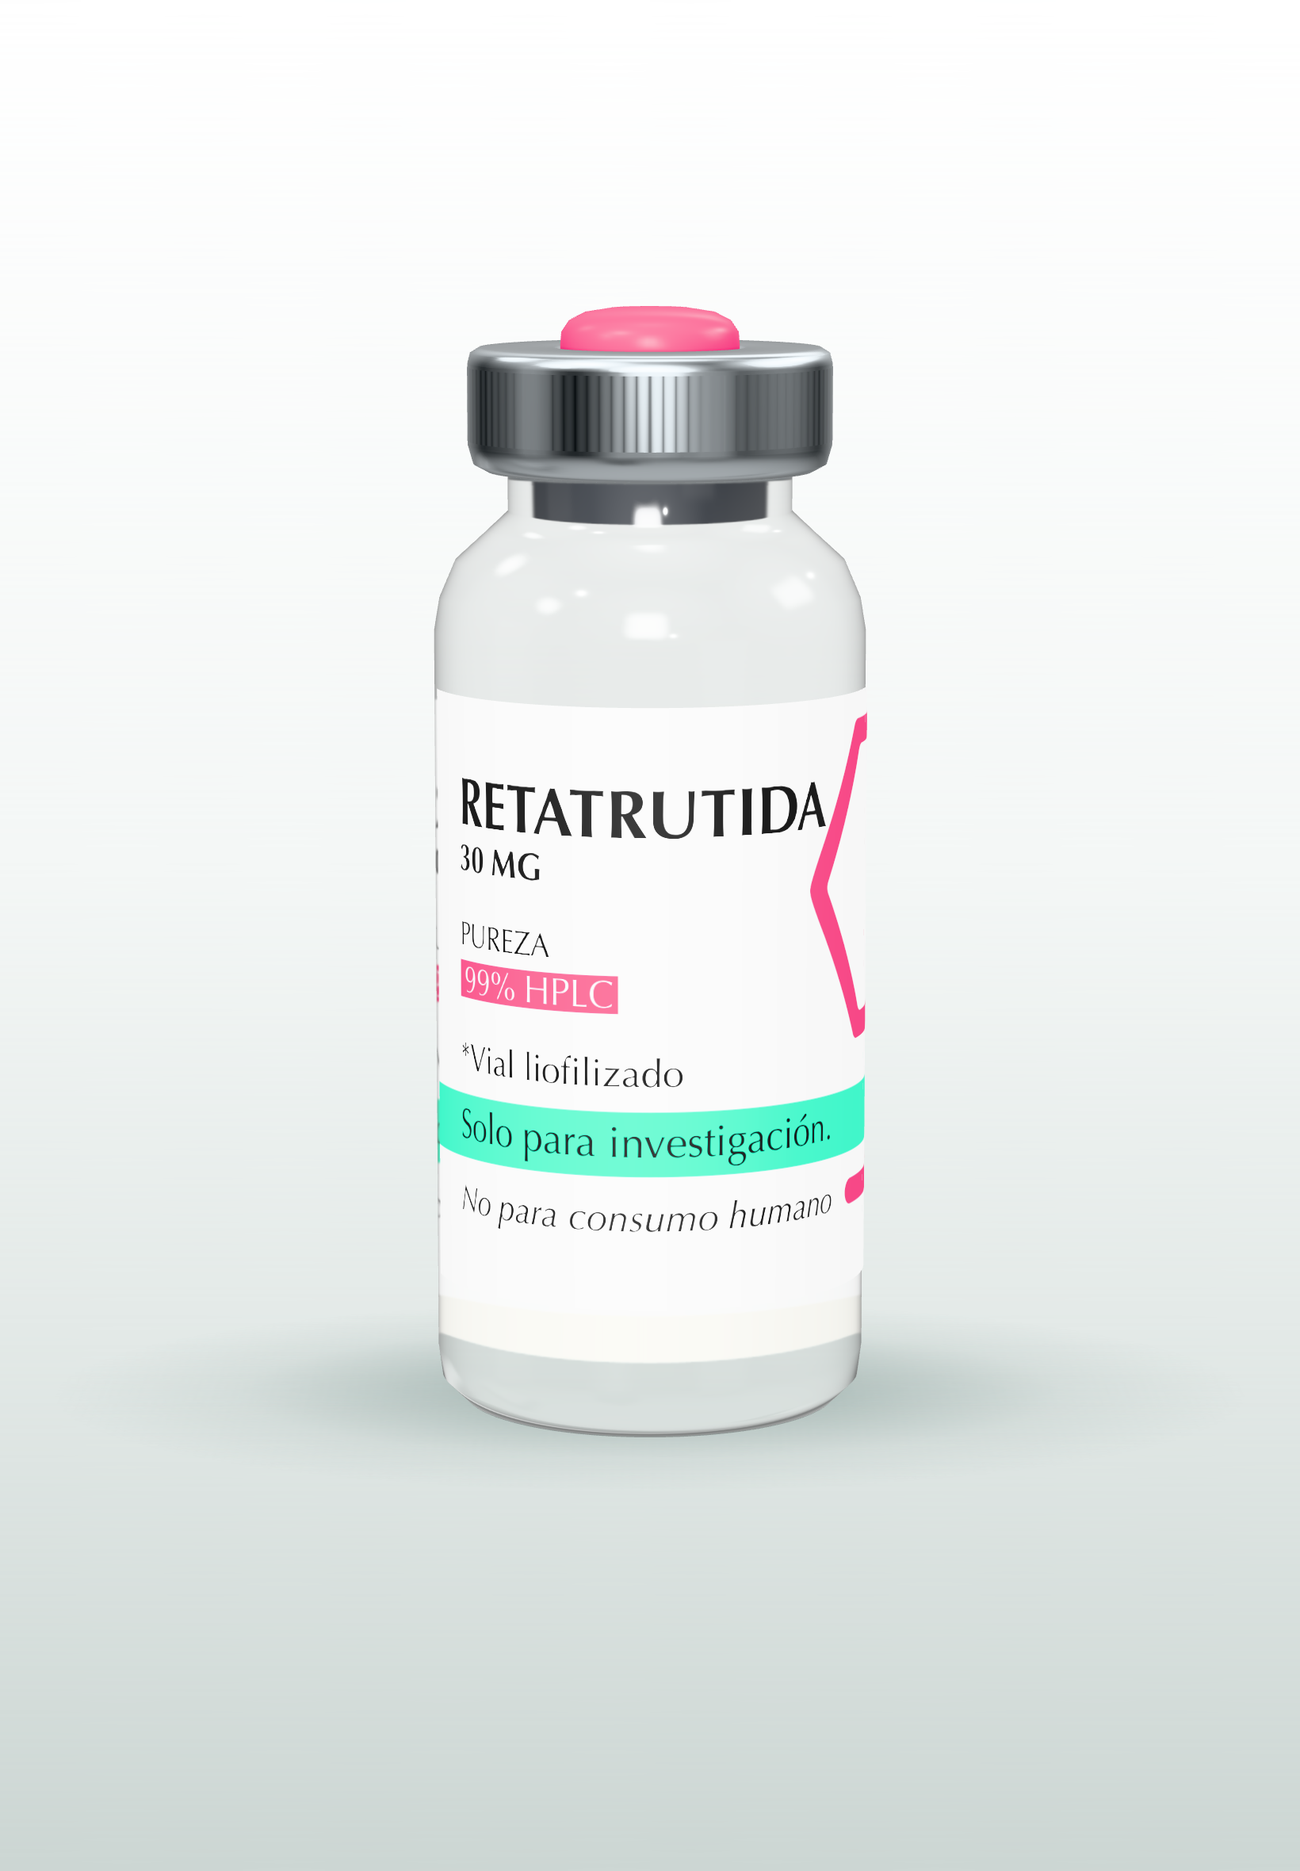
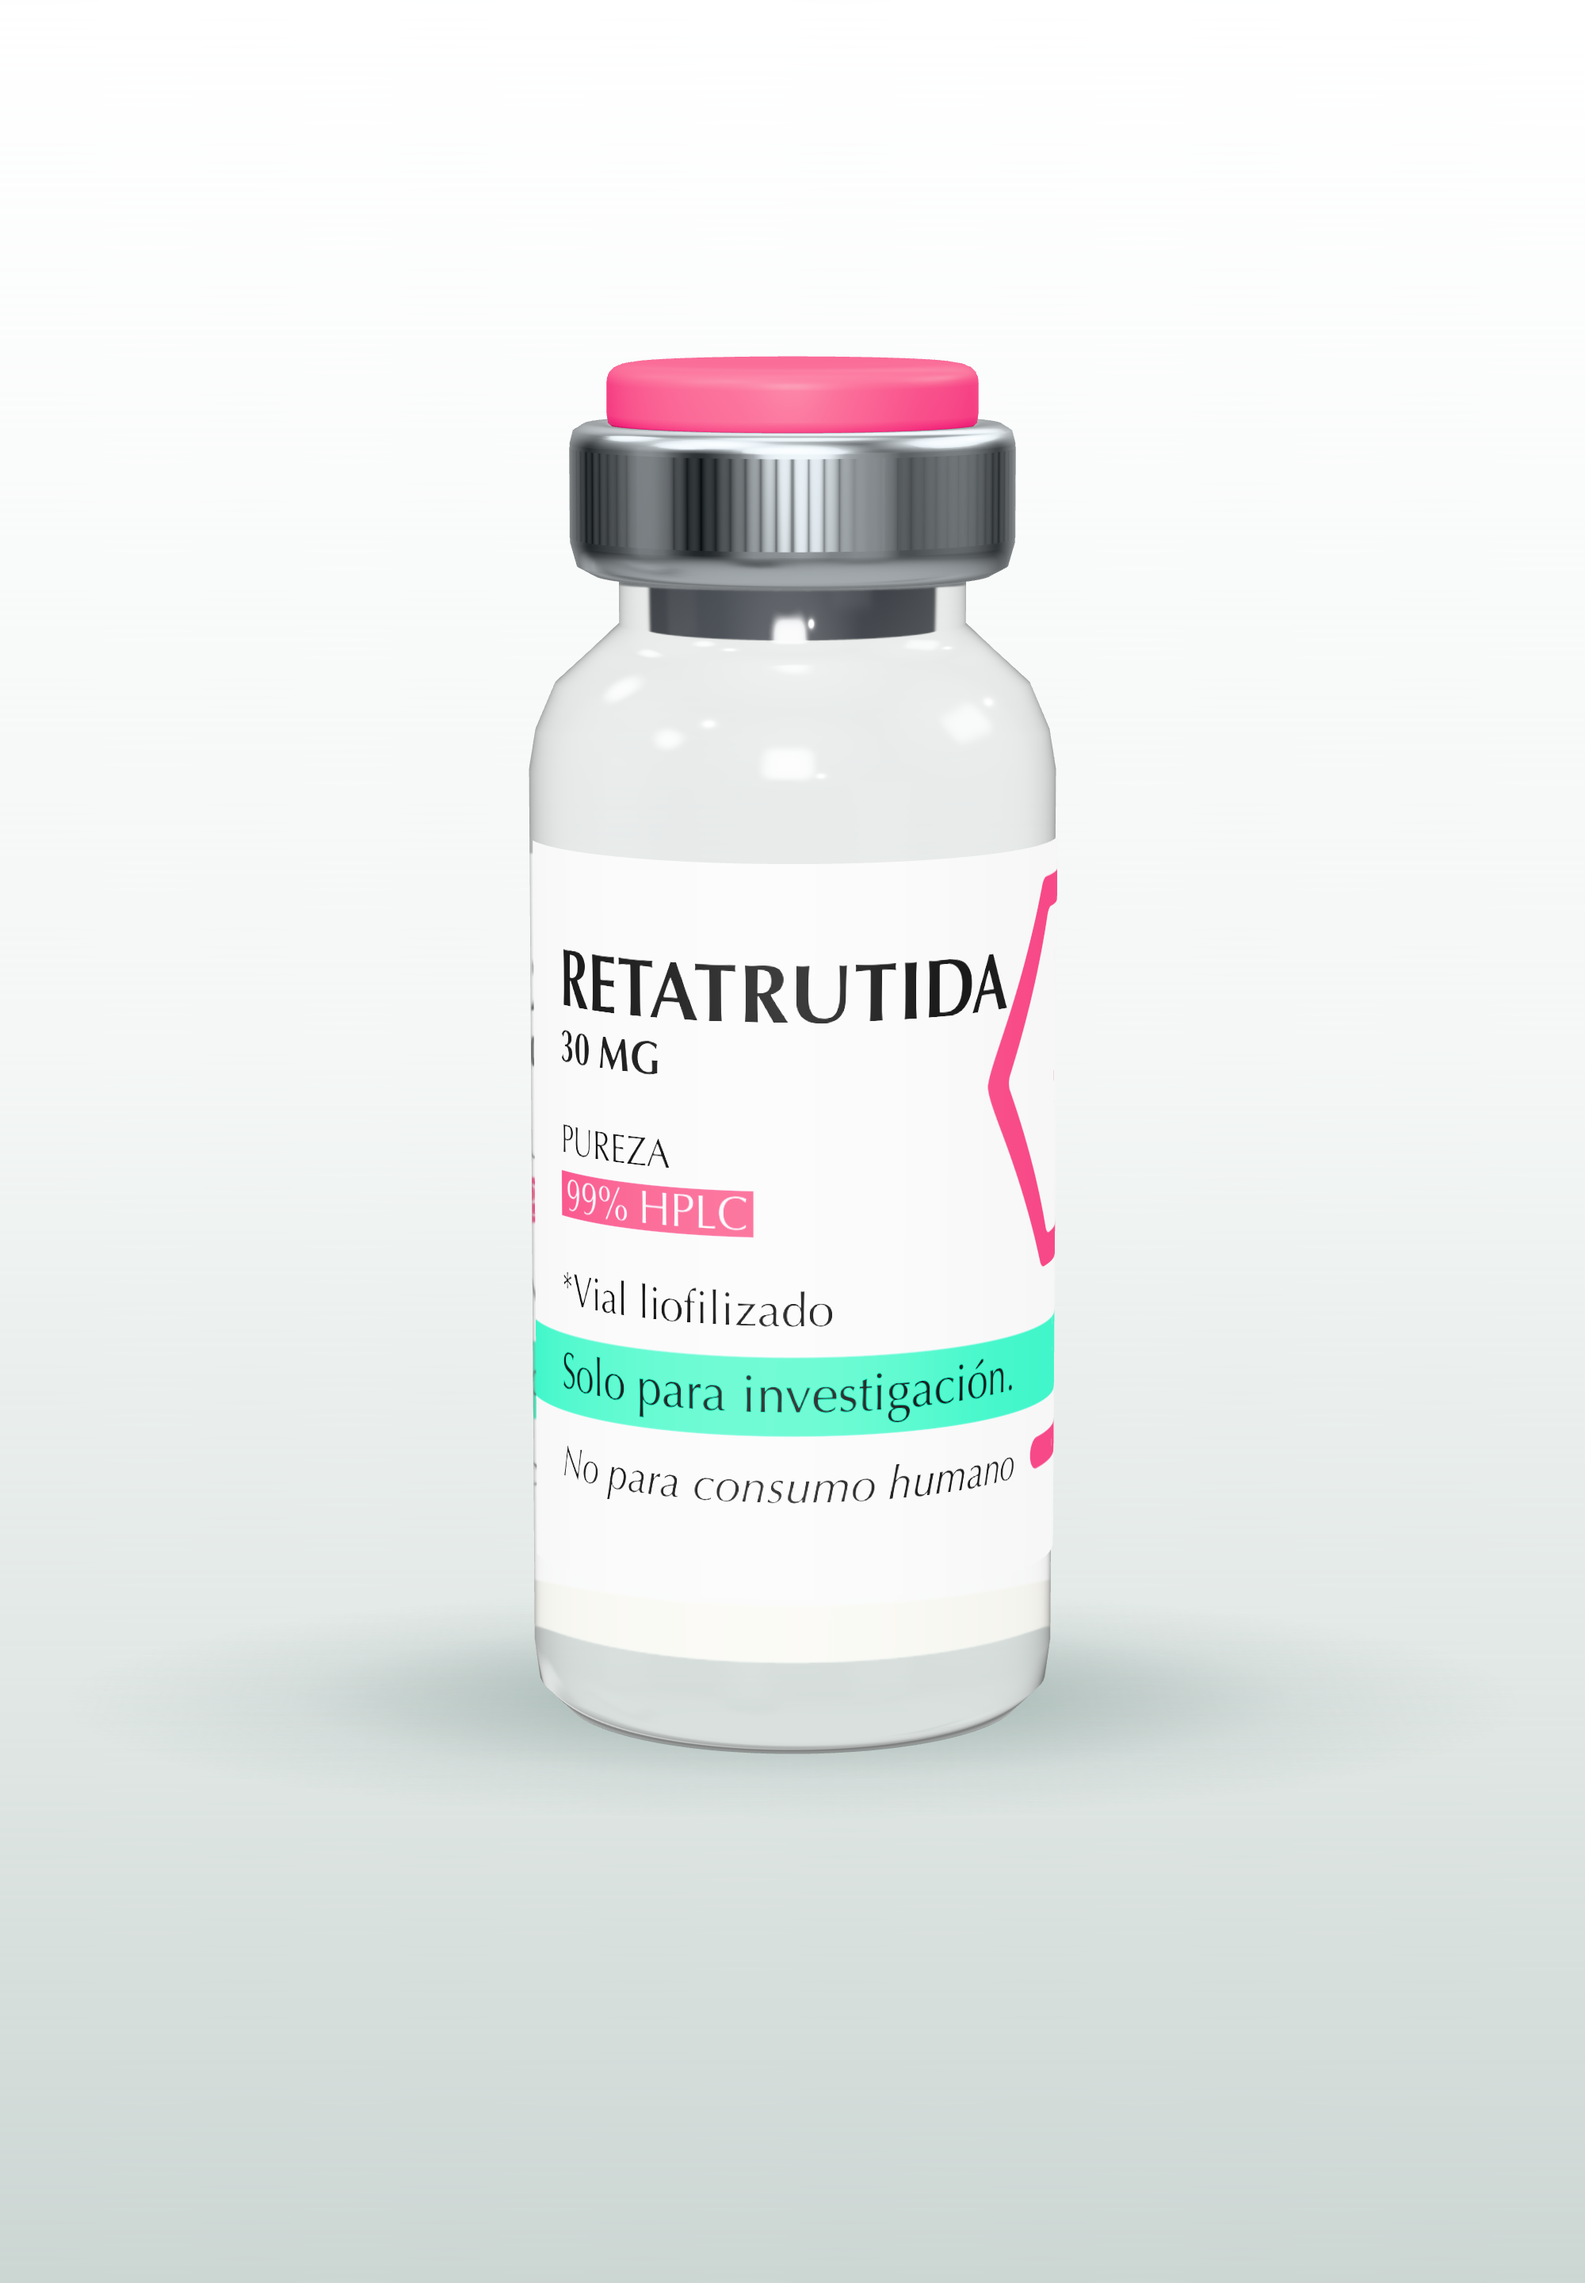
fix(mocks): el flip-off tenía la forma y la resolución mal
Comparado contra foto de un flip-off real: el botón es ancho y de tapa plana,
no una cúpula estrecha. Pasa de radio 3.3 a 5.6 sobre un sello de 6.7, con la
corona abierta para alojarlo, de modo que queda asentado dentro y deja un
anillo fino de aluminio alrededor.

Lo que se veía pixeleado era la silueta facetada: el canto del botón se
resolvía con dos puntos de perfil. Ahora son siete en la curva, y los
torneados del sello y del botón suben a 320 segmentos radiales. El render sale
a 2000 x 2880 para que aguante la ampliación.

El plástico pasa a MeshPhysicalMaterial con rugosidad 0.52 y un clearcoat
suave: antes brillaba como caramelo.

Claude-Session: https://claude.ai/code/session_01WYKnPW9vsfA4iToczreM7S

Changed region(s): [[0.3732, 0.1547, 0.622, 0.2165]]

diff --git a/rediseno/mocks/generar-vial-3d.html b/rediseno/mocks/generar-vial-3d.html
@@ -8,7 +8,7 @@
 import * as THREE from 'three';
 import { RoomEnvironment } from 'three/addons/environments/RoomEnvironment.js';
 
-const W = 820, H = 1180;
+const W = 1000, H = 1440;
 const renderer = new THREE.WebGLRenderer({ canvas: document.getElementById('c'), antialias: true });
 renderer.setPixelRatio(2);
 renderer.setSize(W, H, false);
@@ -88,7 +88,7 @@ stop.visible = true; scene.add(stop);
 // ── Sello de aluminio engastado (20 mm), torneado con su perfil real:
 // corona plana con hueco central, falda con estrías y rizo por debajo de la
 // pestaña de vidrio. El disco plano anterior parecía tapa de frasco.
-const RB = 3.30;          // radio del botón flip-off
+const RB = 5.45;          // hueco de la corona donde se aloja el botón
 const sealPts = [
   new THREE.Vector2(RB,        39.23),
   new THREE.Vector2(RB + 0.24, 39.41),
@@ -100,7 +100,7 @@ const sealPts = [
   new THREE.Vector2(6.00,      34.87),
   new THREE.Vector2(5.55,      35.00),
 ];
-const sealGeo = new THREE.LatheGeometry(sealPts, 192);
+const sealGeo = new THREE.LatheGeometry(sealPts, 320);
 const seal = new THREE.Mesh(sealGeo, new THREE.MeshStandardMaterial({
   color: 0xc9d0d4, metalness: 1, roughness: 0.26,
   side: THREE.DoubleSide, envMapIntensity: 1.35,
@@ -118,7 +118,7 @@ for (let i = 0; i < 1024; i++) {
 const ridgeTex = new THREE.CanvasTexture(ridgeCan);
 ridgeTex.wrapS = ridgeTex.wrapT = THREE.RepeatWrapping;
 const skirt = new THREE.Mesh(
-  new THREE.CylinderGeometry(6.73, 6.73, 2.7, 192, 1, true),
+  new THREE.CylinderGeometry(6.73, 6.73, 2.7, 320, 1, true),
   new THREE.MeshStandardMaterial({
     color: 0xc4cbcf, metalness: 1, roughness: 0.3,
     roughnessMap: ridgeTex, envMapIntensity: 1.3, side: THREE.DoubleSide,
@@ -128,19 +128,25 @@ scene.add(skirt);
 
 // ── Flip-off: botón abombado y estrecho, no un disco del ancho del sello
 const flipPts = [
-  new THREE.Vector2(0.01, 40.90),
-  new THREE.Vector2(1.40, 40.85),
-  new THREE.Vector2(2.40, 40.69),
-  new THREE.Vector2(2.98, 40.39),
-  new THREE.Vector2(3.26, 39.97),
-  new THREE.Vector2(RB,   39.50),
-  new THREE.Vector2(RB,   39.10),
-  new THREE.Vector2(0.01, 39.10),
+  new THREE.Vector2(0.01, 41.26),
+  new THREE.Vector2(2.60, 41.26),
+  new THREE.Vector2(4.35, 41.25),   // tapa plana
+  new THREE.Vector2(4.86, 41.23),
+  new THREE.Vector2(5.16, 41.18),   // el canto se redondea con 7 puntos:
+  new THREE.Vector2(5.37, 41.09),   // con menos, la silueta sale facetada
+  new THREE.Vector2(5.51, 40.96),
+  new THREE.Vector2(5.58, 40.80),
+  new THREE.Vector2(5.60, 40.62),
+  new THREE.Vector2(5.60, 39.72),   // falda del botón
+  new THREE.Vector2(5.56, 39.44),
+  new THREE.Vector2(5.40, 39.30),
+  new THREE.Vector2(0.01, 39.30),
 ];
-const flipGeo = new THREE.LatheGeometry(flipPts, 128);
-const flip = new THREE.Mesh(flipGeo, new THREE.MeshStandardMaterial({
-  color: 0xff047e, roughness: 0.34, metalness: 0.0,
-  side: THREE.DoubleSide, envMapIntensity: 1.0,
+const flipGeo = new THREE.LatheGeometry(flipPts, 320);
+const flip = new THREE.Mesh(flipGeo, new THREE.MeshPhysicalMaterial({
+  color: 0xff047e, roughness: 0.52, metalness: 0.0,
+  clearcoat: 0.18, clearcoatRoughness: 0.35,
+  side: THREE.DoubleSide, envMapIntensity: 0.85,
 }));
 scene.add(flip);
 

diff --git a/rediseno/mocks/README.md b/rediseno/mocks/README.md
@@ -41,10 +41,15 @@ que deja el bloque de texto de frente.
 
 Anatomía real de un sello flip-off, que la primera versión tenía mal: corona
 plana de aluminio con hueco central, falda con estrías finas (por `roughnessMap`,
-no por geometría) y rizo por debajo de la pestaña de vidrio. El botón de plástico
-es **estrecho y abombado** — ocupa poco más de la mitad del diámetro del sello y
-deja un anillo de aluminio visible alrededor. Un disco plano del ancho del sello
-lee como tapa de frasco, no como vial.
+no por geometría) y rizo por debajo de la pestaña de vidrio. El botón de plástico es **ancho y de tapa plana**, no una cúpula estrecha:
+ocupa casi toda la corona (radio 5.6 sobre un sello de 6.7) y deja un anillo de
+aluminio de menos de 1 mm alrededor, asentado dentro del hueco. Comprobado
+contra foto de un flip-off real.
+
+El canto del botón se redondea con **siete puntos de perfil**, no con dos: con
+menos, la silueta se ve facetada al ampliar, que es lo que se lee como
+«pixeleado». Los torneados del sello y del botón van a 320 segmentos radiales,
+y el render sale a 2000 × 2880 para que aguante el zoom.
 
 **La cámara tiene que ir por encima del sello** (y 43 contra los 37.3 de la tapa).
 Por debajo se ve el engaste desde abajo y el botón desaparece tras el borde: eso,
